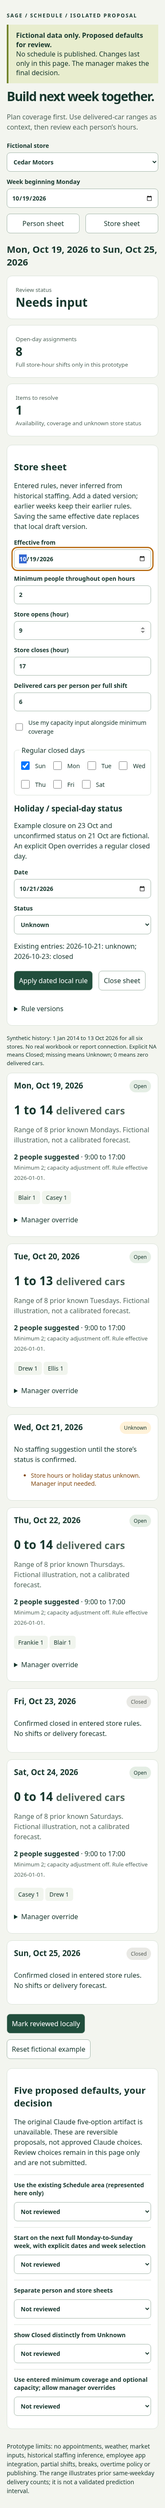
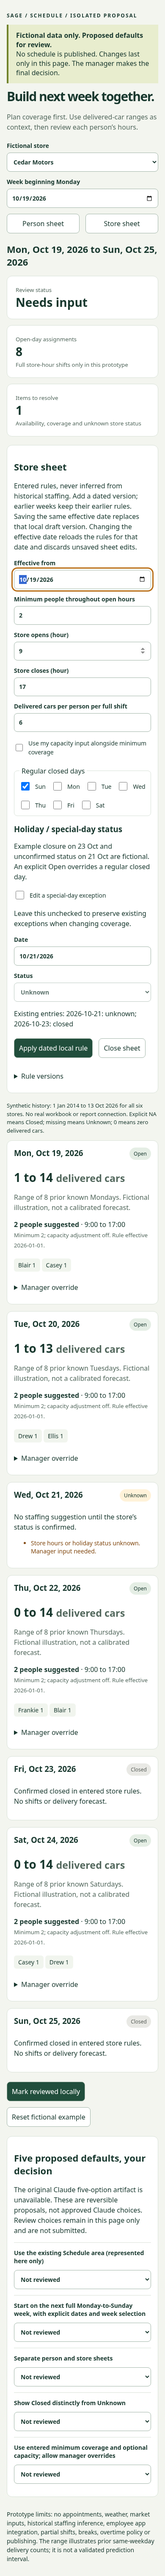
Fix dated store edits and sheet focus in scheduler proposal
Preserve exceptions unless explicitly edited, initialize from the applicable dated rule, and return focus to the actual sheet opener. Add repeated-save regressions and browser evidence.

Codex-Session: https://chatgpt.com/c/01a118c8-416c-7086-a222-eef156b1403d

diff --git a/scripts/scheduler-proposal/README.md b/scripts/scheduler-proposal/README.md
@@ -5,7 +5,7 @@ Fictional data only. This is a reviewable local prototype, not an application in
 ```sh
 python3 -m http.server 5189 --bind 127.0.0.1 --directory scripts/scheduler-proposal
 # Open http://127.0.0.1:5189/
-node --test scripts/scheduler-proposal/model.test.mjs
+node --test scripts/scheduler-proposal/*.test.mjs
 PLAYWRIGHT_MODULE=/path/to/playwright node scripts/scheduler-proposal/probe.mjs
 ```
 
@@ -27,15 +27,15 @@ The Schedule area is represented by a standalone proposal, not wired into the ow
 
 Six invented stores have deterministic synthetic daily delivery readings from January 2014 to October 2026. No names, counts or workbook cells come from the real stores. Explicit NA is Closed, missing is Unknown and a numeric zero is known zero. Forecast cards show the min/max of the last eight known matching weekdays and explain it. This is an illustrative range, not C111's forecast implementation or a calibrated prediction interval. Weather, market and appointments are excluded.
 
-Person and store sheets are separate. Person edits cover days off, available hours and a weekly cap. Store edits create effective-dated rules for open hours, minimum coverage, optional entered delivery capacity, regular closure days and holiday exceptions. Versions apply per date, including midweek changes; saving the same effective date replaces the local draft at that date. Holiday Open explicitly overrides a regular closure. Historical deliveries never infer staffing rules.
+Person and store sheets are separate. Person edits cover days off, available hours and a weekly cap. Store edits create effective-dated rules for open hours, minimum coverage, optional entered delivery capacity, regular closure days and holiday exceptions. The sheet loads the rule applicable to its effective date, and changing that date reloads its settings and discards unsaved sheet edits. Dates before the first rule start with blank required fields. Special-day editing is optional and explicit: unchecked saves preserve exceptions, and selecting an exception date displays its existing status. Versions apply per date, including midweek changes; saving the same effective date replaces the local draft at that date. Holiday Open explicitly overrides a regular closure. Historical deliveries never infer staffing rules.
 
 The proposal assigns full store-hour shifts using availability and weekly caps, rotating toward people with fewer assigned hours. It always uses entered minimum coverage. Optional capacity can raise the requirement, but delivered-car counts alone never determine it. Manager overrides retain selected people and surface day-off, hour, weekly-cap and coverage conflicts. Unknown store status produces no assignments. Mark reviewed locally is blocked while conflicts remain. Nothing publishes or writes outside page memory. Reload discards edits.
 
 ## Verification
 
-- `npm test`: 927 passed, including 11 new behavioral tests.
+- `npm test`: 932 passed, including 16 proposal behavioral tests (five cover the store editor corrections).
 - `npm run build`: passed; existing large-chunk warning remains.
-- Chromium: full editing/review flow at 1440, 390 and 320 pixels. No horizontal overflow at baseline or 200% root text. No page errors or external requests. The CSP also prohibits connections.
+- Chromium: full editing/review flow at 1440, 390 and 320 pixels, including repeated coverage saves, optional exception editing, October 26 then October 19 edits, switching effective dates, earlier-save isolation and focus returning to each sheet’s actual opener. No horizontal overflow at baseline or 200% root text. No page errors or external requests. The CSP also prohibits connections.
 - Initial browser run exposed malformed holiday options. Fixed the markup, then reran the complete browser flow successfully. No failed assertion was removed or weakened.
 - WebKit: attempted, but launch blocked by missing GTK4, Graphene, HarfBuzz ICU, Manette, Hyphen and GLES system libraries. This is not a WebKit pass.
 - No physical phone, native WebView, native keyboard, screen-reader, production UI integration, legal staffing policy, real forecasting accuracy or backend verification. 200% root text is a layout stress check, not full browser zoom or OS accessibility certification.
@@ -43,8 +43,12 @@ The proposal assigns full store-hour shifts using availability and weekly caps, 
 
 Selected screenshots are committed under `evidence/`; the complete local set and machine-readable results are in `/workspace/scheduler-evidence`. The evidence manifest hashes the exact UI/model/probe files used for capture. Screenshots are fictional. No protected hosted preview is provisioned; the local page and draft source are the review deliverables. The repository's existing deployment ignore rule excludes scripts-only changes.
 
+## Independent-review corrections
+
+The original single-save browser probe missed three real defects: ordinary coverage saves overwrote a confirmed Open exception with Unknown, a future rule seeded earlier edits, and closing Store sheet focused Person sheet. Corrected within this directory only. Five new editor regressions and the expanded browser flow exercise repeated saves, optional exception edits, date-based initialization and both focus return paths. The first correction browser attempt received an empty response from the stale local static server; restarting that server restored access, then the full probe passed. This was a local serving failure, not an assertion failure or a browser pass.
+
 ## Review images
 
-[Desktop week](evidence/desktop-week.png) · [Phone week](evidence/phone-week.png) · [Phone person sheet](evidence/phone-person.png) · [Phone store sheet](evidence/phone-store.png) · [Phone override conflict](evidence/phone-override.png)
+[Desktop week](evidence/desktop-week.png) · [Phone week](evidence/phone-week.png) · [Phone person sheet](evidence/phone-person.png) · [Phone store sheet](evidence/phone-store.png) · [Phone override conflict](evidence/phone-override.png) · [Repeated save](evidence/phone-repeat-save.png) · [Earlier rule after future-rule edit](evidence/phone-dated-rule.png)
 
 Remaining implementation limits: no partial shifts, breaks, cross-store staffing, store-local timezone configuration, durable saves, history top-up, forecast validation, manager authentication, salespeople's app hours or production wiring. These require later scoped work and ownership coordination. User review of the five proposed defaults remains outstanding.
